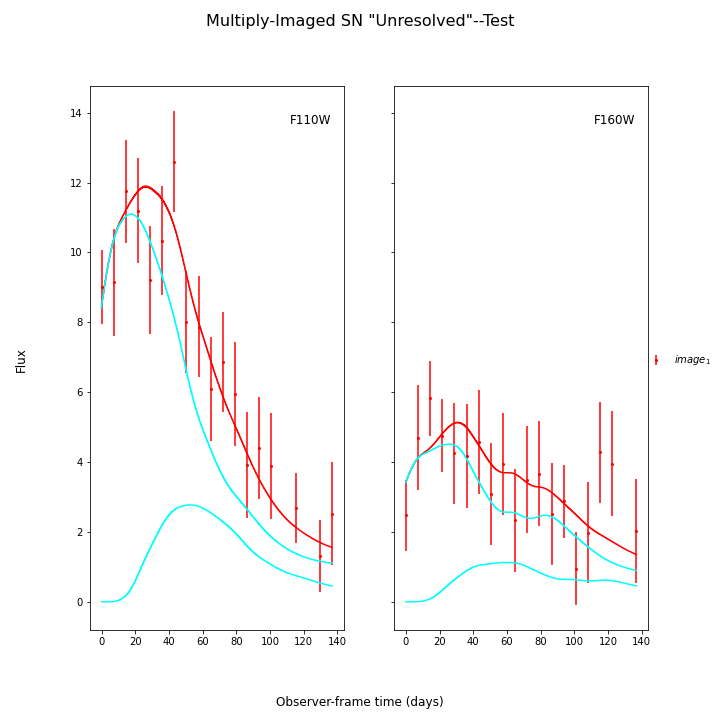
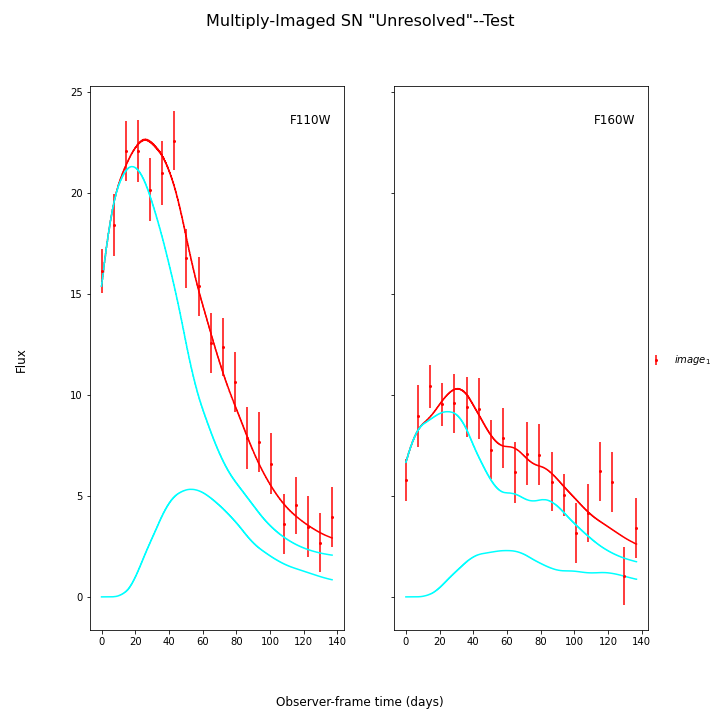
added corner to docs

diff --git a/docs/source/examples.rst b/docs/source/examples.rst
@@ -346,7 +346,7 @@ Now this unresolved model can be simply used in the SNTD fitting methods as norm
 
 Out::
 
-    [('z', 1.4), ('t0', -1.0278361916823293), ('x0', 7.765488459076104e-07), ('x1', 1.3974800481087788), ('c', -0.13893966031920527), ('dt_1', 20.0), ('mu_1', 2.0), ('dt_2', 55.0), ('mu_2', 0.5)]
+    [('z', 1.4), ('t0', -0.7620832162021888), ('x0', 7.298888590029448e-07), ('x1', 1.4960457248192203), ('c', -0.08384340717738858), ('dt_1', 20.0), ('mu_1', 4.0), ('dt_2', 55.0), ('mu_2', 1.0)]
 
 .. image:: _static/unresolved_fit_const.png
     :width: 600px
@@ -375,7 +375,7 @@ Additionally, we can attempt to fit for relative time delays/magnifications of t
 
 Out::
 
-	[('z', 1.4), ('t0', 19.049520197844256), ('x0', 3.8810696411265204e-07), ('x1', 1.3824022599265968), ('c', -0.14136857807706724), ('dt_1', 0.0), ('mu_1', 4.0), ('dt_2', 35.79664673433084), ('mu_2', 1.0)]
+	[('z', 1.4), ('t0', 19.203237085466867), ('x0', 7.349261421179482e-07), ('x1', 1.682206180032783), ('c', -0.0909991294403899), ('dt_1', 0.0), ('mu_1', 4.0), ('dt_2', 38.205546125150704), ('mu_2', 1.0)]
 
 .. image:: _static/unresolved_fit.png
     :width: 600px
@@ -390,17 +390,18 @@ Out::
 				params=['x0','x1','t0','c','mu_1',dt_2','mu_2'],
 				constants={'z':1.4},
 				bounds={'t0':(-20,20),'mu_1':(3.5,4.5),'mu_2':(.5,1.5),
-						'dt_2':(20,40),'x1':(-2,2),'c':(-.5,.5)},
+						'dt_2':(20,80),'x1':(-3,3),'c':(-.5,.5)},
 				method='parallel',npoints=100)
 
 	print(list(zip(fitCurves.images['image_1'].fits.model.param_names,
 	  fitCurves.images['image_1'].fits.model.parameters)))
 	fitCurves.plot_object(showFit=True,plot_unresolved=True)
+	fitCurves.plot_fit()
 	plt.show()
 
 Out::
 
-	[('z', 1.4), ('t0', 18.431232800011088), ('x0', 3.9075786259221787e-07), ('x1', 1.2688381944357372), ('c', -0.14628116855828782), ('dt_1', 0.0), ('mu_1', 3.949339295648203), ('dt_2', 35.9501709954891), ('mu_2', 1.1224548128661398)]
+	[('z', 1.4), ('t0', 19.49243682866722), ('x0', 7.43527262511094e-07), ('x1', 1.7221753624460694), ('c', -0.08879485874943827), ('dt_1', 0.0), ('mu_1', 3.980681598438305), ('dt_2', 38.91567004151568), ('mu_2', 0.9718061929858269)]
 
 .. image:: _static/unresolved_fit_mu.png
     :width: 600px
@@ -408,4 +409,10 @@ Out::
     :height: 600px
     :alt: alternate text
 
-For these last two examples, there is a lot of parameter degeneracy but we still do reasonably well. The true values are t0=20,dt_2=35,mu_1=4,mu_2=1. Here the time delay measurement remains accurate, although the time of peak measurement degrades somewhat. 
+.. image:: _static/unresolved_corner.png
+    :width: 600px
+    :align: center
+    :height: 600px
+    :alt: alternate text
+
+For these last two examples, there is a lot of parameter degeneracy but we still do reasonably well. The true values are t0=20,dt_2=35,mu_1=4,mu_2=1, c=-0.02., x1=1.33 
